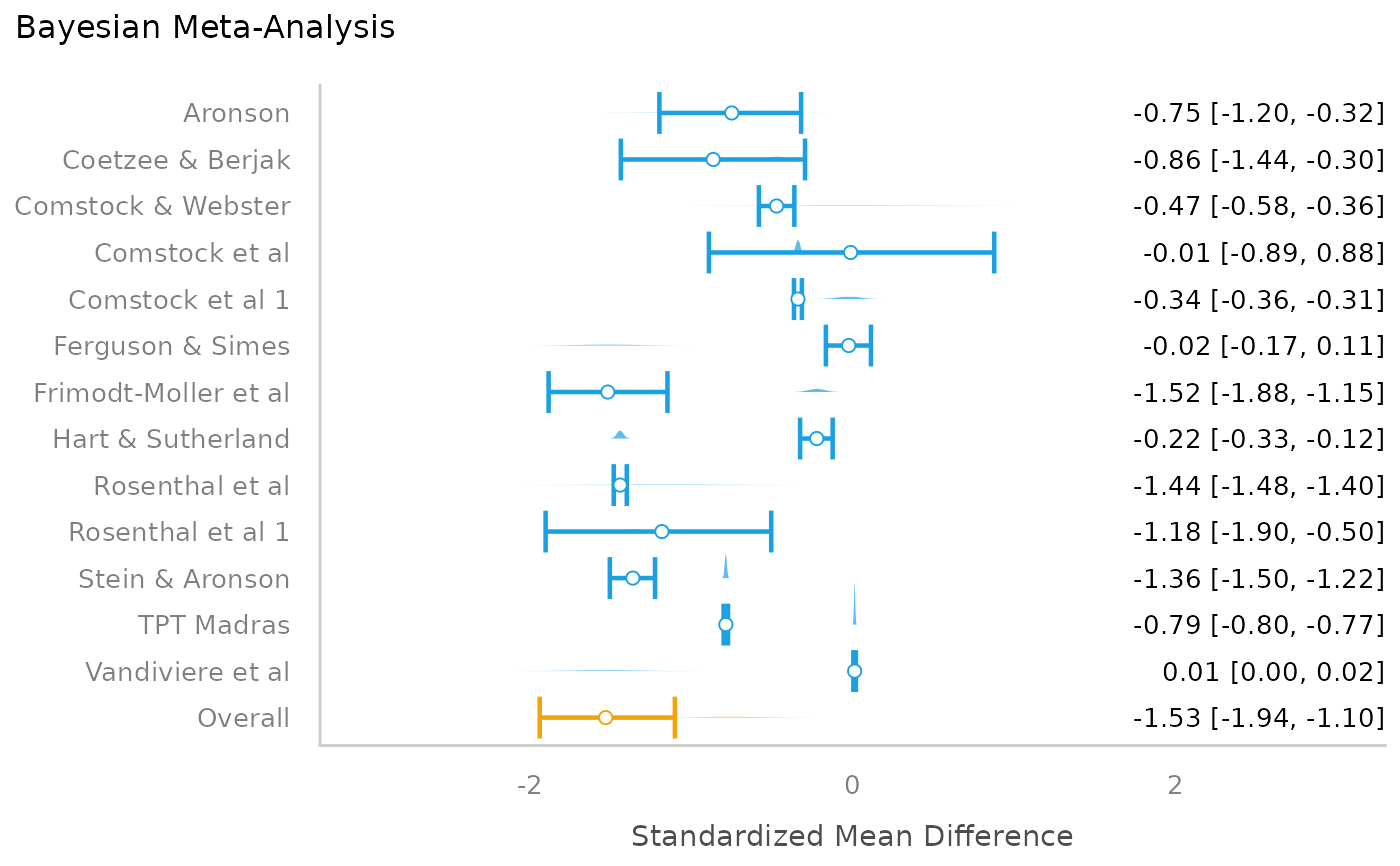
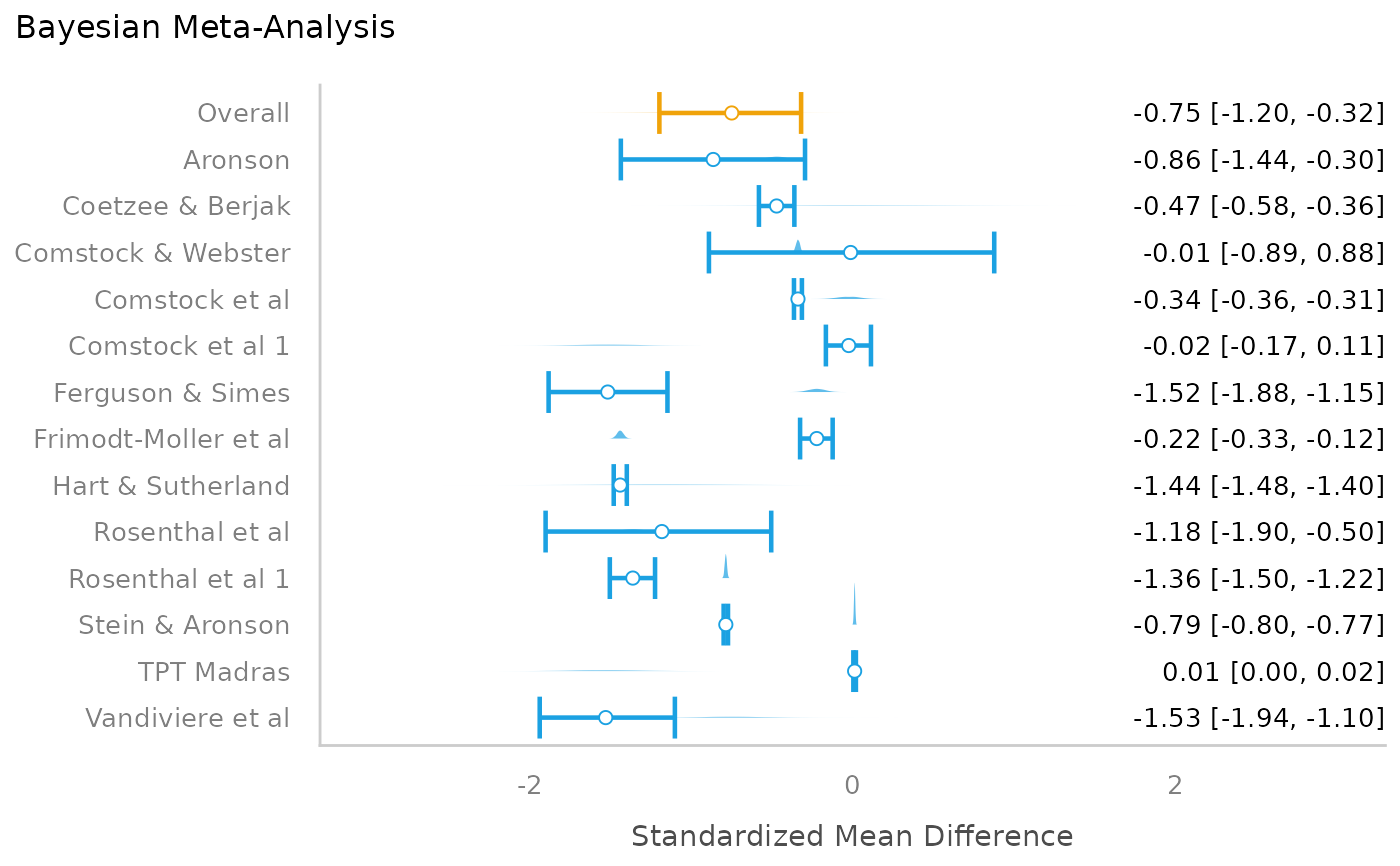
Deploying to gh-pages from @ easystats/see@2c340efe554aa6c4de41c799d99c848ec0261a95 🚀

diff --git a/articles/parameters.html b/articles/parameters.html
@@ -87,7 +87,7 @@
       <img src="../logo.png" class="logo" alt=""><h1>Plotting Functions for the 'parameters' Package</h1>
             
       
-      <small class="dont-index">Source: <a href="https://github.com/easystats/see/blob/v0.14.0/vignettes/parameters.Rmd" class="external-link"><code>vignettes/parameters.Rmd</code></a></small>
+      <small class="dont-index">Source: <a href="https://github.com/easystats/see/blob/main/vignettes/parameters.Rmd" class="external-link"><code>vignettes/parameters.Rmd</code></a></small>
       <div class="d-none name"><code>parameters.Rmd</code></div>
     </div>
 
@@ -514,55 +514,33 @@ to refit the exact model used below:</p>
 <span><span class="va">result</span></span>
 <span><span class="co">#&gt; # Studies</span></span>
 <span><span class="co">#&gt; </span></span>
-<span><span class="co">#&gt; Parameter                                  | Median |        95% CI | Weight</span></span>
-<span><span class="co">#&gt; ----------------------------------------------------------------------------</span></span>
-<span><span class="co">#&gt; b_Intercept                                |   0.57 | [ 0.40, 0.76] |       </span></span>
-<span><span class="co">#&gt; r_Author[Call.et.al.,Intercept]            |   0.63 | [ 0.28, 1.03] |   3.83</span></span>
-<span><span class="co">#&gt; r_Author[Cavanagh.et.al.,Intercept]        |   0.43 | [ 0.10, 0.75] |   5.09</span></span>
-<span><span class="co">#&gt; r_Author[DanitzOrsillo,Intercept]          |   1.05 | [ 0.54, 1.67] |   2.89</span></span>
-<span><span class="co">#&gt; r_Author[de.Vibe.et.al.,Intercept]         |   0.25 | [ 0.02, 0.47] |   8.49</span></span>
-<span><span class="co">#&gt; r_Author[Frazier.et.al.,Intercept]         |   0.45 | [ 0.20, 0.71] |   6.91</span></span>
-<span><span class="co">#&gt; r_Author[Frogeli.et.al.,Intercept]         |   0.60 | [ 0.30, 0.93] |   5.10</span></span>
-<span><span class="co">#&gt; r_Author[Gallego.et.al.,Intercept]         |   0.65 | [ 0.31, 1.03] |   4.45</span></span>
-<span><span class="co">#&gt; r_Author[Hazlett-Stevens.&amp;.Oren,Intercept] |   0.54 | [ 0.20, 0.88] |   4.75</span></span>
-<span><span class="co">#&gt; r_Author[Hintz.et.al.,Intercept]           |   0.36 | [ 0.08, 0.64] |   5.95</span></span>
-<span><span class="co">#&gt; r_Author[Kang.et.al.,Intercept]            |   0.84 | [ 0.41, 1.40] |   2.97</span></span>
-<span><span class="co">#&gt; r_Author[Kuhlmann.et.al.,Intercept]        |   0.27 | [-0.09, 0.57] |   5.14</span></span>
-<span><span class="co">#&gt; r_Author[Lever.Taylor.et.al.,Intercept]    |   0.46 | [ 0.10, 0.81] |   4.33</span></span>
-<span><span class="co">#&gt; r_Author[Phang.et.al.,Intercept]           |   0.55 | [ 0.19, 0.92] |   4.09</span></span>
-<span><span class="co">#&gt; r_Author[Rasanen.et.al.,Intercept]         |   0.49 | [ 0.10, 0.87] |   3.88</span></span>
-<span><span class="co">#&gt; r_Author[Ratanasiripong,Intercept]         |   0.54 | [ 0.09, 0.99] |   2.85</span></span>
-<span><span class="co">#&gt; r_Author[Shapiro.et.al.,Intercept]         |   0.96 | [ 0.50, 1.53] |   3.17</span></span>
-<span><span class="co">#&gt; r_Author[SongLindquist,Intercept]          |   0.59 | [ 0.25, 0.95] |   4.41</span></span>
-<span><span class="co">#&gt; r_Author[Warnecke.et.al.,Intercept]        |   0.58 | [ 0.21, 0.96] |   4.02</span></span>
-<span><span class="co">#&gt; </span></span>
-<span><span class="co">#&gt; Parameter                                  |     pd |  Rhat | ESS (tail)</span></span>
-<span><span class="co">#&gt; ------------------------------------------------------------------------</span></span>
-<span><span class="co">#&gt; b_Intercept                                |   100% | 1.000 |       4648</span></span>
-<span><span class="co">#&gt; r_Author[Call.et.al.,Intercept]            | 99.95% |       |           </span></span>
-<span><span class="co">#&gt; r_Author[Cavanagh.et.al.,Intercept]        | 99.45% |       |           </span></span>
-<span><span class="co">#&gt; r_Author[DanitzOrsillo,Intercept]          |   100% |       |           </span></span>
-<span><span class="co">#&gt; r_Author[de.Vibe.et.al.,Intercept]         | 98.39% |       |           </span></span>
-<span><span class="co">#&gt; r_Author[Frazier.et.al.,Intercept]         | 99.91% |       |           </span></span>
-<span><span class="co">#&gt; r_Author[Frogeli.et.al.,Intercept]         | 99.99% |       |           </span></span>
-<span><span class="co">#&gt; r_Author[Gallego.et.al.,Intercept]         |   100% |       |           </span></span>
-<span><span class="co">#&gt; r_Author[Hazlett-Stevens.&amp;.Oren,Intercept] | 99.85% |       |           </span></span>
-<span><span class="co">#&gt; r_Author[Hintz.et.al.,Intercept]           | 99.36% |       |           </span></span>
-<span><span class="co">#&gt; r_Author[Kang.et.al.,Intercept]            |   100% |       |           </span></span>
-<span><span class="co">#&gt; r_Author[Kuhlmann.et.al.,Intercept]        | 93.21% |       |           </span></span>
-<span><span class="co">#&gt; r_Author[Lever.Taylor.et.al.,Intercept]    | 99.34% |       |           </span></span>
-<span><span class="co">#&gt; r_Author[Phang.et.al.,Intercept]           | 99.83% |       |           </span></span>
-<span><span class="co">#&gt; r_Author[Rasanen.et.al.,Intercept]         | 99.26% |       |           </span></span>
-<span><span class="co">#&gt; r_Author[Ratanasiripong,Intercept]         | 99.01% |       |           </span></span>
-<span><span class="co">#&gt; r_Author[Shapiro.et.al.,Intercept]         |   100% |       |           </span></span>
-<span><span class="co">#&gt; r_Author[SongLindquist,Intercept]          | 99.95% |       |           </span></span>
-<span><span class="co">#&gt; r_Author[Warnecke.et.al.,Intercept]        | 99.81% |       |           </span></span>
+<span><span class="co">#&gt; Parameter              | Median |        95% CI | Weight |     pd |  Rhat | ESS (tail)</span></span>
+<span><span class="co">#&gt; --------------------------------------------------------------------------------------</span></span>
+<span><span class="co">#&gt; Overall                |   0.57 | [ 0.40, 0.76] |        |   100% | 1.000 |       4648</span></span>
+<span><span class="co">#&gt; Call et al             |   0.63 | [ 0.28, 1.03] |   3.83 | 99.95% |       |           </span></span>
+<span><span class="co">#&gt; Cavanagh et al         |   0.43 | [ 0.10, 0.75] |   5.09 | 99.45% |       |           </span></span>
+<span><span class="co">#&gt; DanitzOrsillo          |   1.05 | [ 0.54, 1.67] |   2.89 |   100% |       |           </span></span>
+<span><span class="co">#&gt; de Vibe et al          |   0.25 | [ 0.02, 0.47] |   8.49 | 98.39% |       |           </span></span>
+<span><span class="co">#&gt; Frazier et al          |   0.45 | [ 0.20, 0.71] |   6.91 | 99.91% |       |           </span></span>
+<span><span class="co">#&gt; Frogeli et al          |   0.60 | [ 0.30, 0.93] |   5.10 | 99.99% |       |           </span></span>
+<span><span class="co">#&gt; Gallego et al          |   0.65 | [ 0.31, 1.03] |   4.45 |   100% |       |           </span></span>
+<span><span class="co">#&gt; Hazlett-Stevens &amp; Oren |   0.54 | [ 0.20, 0.88] |   4.75 | 99.85% |       |           </span></span>
+<span><span class="co">#&gt; Hintz et al            |   0.36 | [ 0.08, 0.64] |   5.95 | 99.36% |       |           </span></span>
+<span><span class="co">#&gt; Kang et al             |   0.84 | [ 0.41, 1.40] |   2.97 |   100% |       |           </span></span>
+<span><span class="co">#&gt; Kuhlmann et al         |   0.27 | [-0.09, 0.57] |   5.14 | 93.21% |       |           </span></span>
+<span><span class="co">#&gt; Lever Taylor et al     |   0.46 | [ 0.10, 0.81] |   4.33 | 99.34% |       |           </span></span>
+<span><span class="co">#&gt; Phang et al            |   0.55 | [ 0.19, 0.92] |   4.09 | 99.83% |       |           </span></span>
+<span><span class="co">#&gt; Rasanen et al          |   0.49 | [ 0.10, 0.87] |   3.88 | 99.26% |       |           </span></span>
+<span><span class="co">#&gt; Ratanasiripong         |   0.54 | [ 0.09, 0.99] |   2.85 | 99.01% |       |           </span></span>
+<span><span class="co">#&gt; Shapiro et al          |   0.96 | [ 0.50, 1.53] |   3.17 |   100% |       |           </span></span>
+<span><span class="co">#&gt; SongLindquist          |   0.59 | [ 0.25, 0.95] |   4.41 | 99.95% |       |           </span></span>
+<span><span class="co">#&gt; Warnecke et al         |   0.58 | [ 0.21, 0.96] |   4.02 | 99.81% |       |           </span></span>
 <span><span class="co">#&gt; </span></span>
 <span><span class="co">#&gt; # Tau</span></span>
 <span><span class="co">#&gt; </span></span>
-<span><span class="co">#&gt; Parameter            | Median |       95% CI |   pd</span></span>
-<span><span class="co">#&gt; ---------------------------------------------------</span></span>
-<span><span class="co">#&gt; sd_Author__Intercept |   0.29 | [0.12, 0.51] | 100%</span></span>
+<span><span class="co">#&gt; Parameter | Median |       95% CI |   pd</span></span>
+<span><span class="co">#&gt; ----------------------------------------</span></span>
+<span><span class="co">#&gt; tau       |   0.29 | [0.12, 0.51] | 100%</span></span>
 <span><span class="fu"><a href="https://rdrr.io/r/graphics/plot.default.html" class="external-link">plot</a></span><span class="op">(</span><span class="va">result</span><span class="op">)</span></span></code></pre></div>
 <p><img src="parameters_files/figure-html/unnamed-chunk-28-1.png" class="r-plt" alt="" width="672"></p>
 </div>

diff --git a/news/index.html b/news/index.html
@@ -50,11 +50,11 @@
 <div class="row">
   <main id="main" class="col-md-9"><div class="page-header">
       <img src="../logo.png" class="logo" alt=""><h1>Changelog</h1>
-      <small>Source: <a href="https://github.com/easystats/see/blob/v0.14.0/NEWS.md" class="external-link"><code>NEWS.md</code></a></small>
+      <small>Source: <a href="https://github.com/easystats/see/blob/main/NEWS.md" class="external-link"><code>NEWS.md</code></a></small>
     </div>
 
     <div class="section level2">
-<h2 class="pkg-version" data-toc-text="0.14.0" id="see-0140">see 0.14.0<a class="anchor" aria-label="anchor" href="#see-0140"></a></h2>
+<h2 class="pkg-version" data-toc-text="0.14.0" id="see-0140">see 0.14.0<a class="anchor" aria-label="anchor" href="#see-0140"></a></h2><p class="text-muted">CRAN release: 2026-05-24</p>
 <div class="section level3">
 <h3 id="changes-0-14-0">Changes<a class="anchor" aria-label="anchor" href="#changes-0-14-0"></a></h3>
 <ul><li><p><code><a href="https://rdrr.io/r/graphics/plot.default.html" class="external-link">plot()</a></code> for <code><a href="https://easystats.github.io/parameters/reference/principal_components.html" class="external-link">parameters::factor_analysis()</a></code> and <code><a href="https://easystats.github.io/parameters/reference/principal_components.html" class="external-link">parameters::principal_components()</a></code> gains a new <code>type</code> option, <code>"graph"</code>. This creates a graph with nodes/edges indicating factor loadings.</p></li>

diff --git a/CODE_OF_CONDUCT.html b/CODE_OF_CONDUCT.html
@@ -50,7 +50,7 @@
 <div class="row">
   <main id="main" class="col-md-9"><div class="page-header">
       <img src="logo.png" class="logo" alt=""><h1>Contributor Covenant Code of Conduct</h1>
-      <small class="dont-index">Source: <a href="https://github.com/easystats/see/blob/v0.14.0/.github/CODE_OF_CONDUCT.md" class="external-link"><code>.github/CODE_OF_CONDUCT.md</code></a></small>
+      <small class="dont-index">Source: <a href="https://github.com/easystats/see/blob/main/.github/CODE_OF_CONDUCT.md" class="external-link"><code>.github/CODE_OF_CONDUCT.md</code></a></small>
     </div>
 
 <div id="contributor-covenant-code-of-conduct" class="section level1">

diff --git a/CONTRIBUTING.html b/CONTRIBUTING.html
@@ -50,7 +50,7 @@
 <div class="row">
   <main id="main" class="col-md-9"><div class="page-header">
       <img src="logo.png" class="logo" alt=""><h1>Contributing to see</h1>
-      <small class="dont-index">Source: <a href="https://github.com/easystats/see/blob/v0.14.0/.github/CONTRIBUTING.md" class="external-link"><code>.github/CONTRIBUTING.md</code></a></small>
+      <small class="dont-index">Source: <a href="https://github.com/easystats/see/blob/main/.github/CONTRIBUTING.md" class="external-link"><code>.github/CONTRIBUTING.md</code></a></small>
     </div>
 
 <div id="contributing-to-see" class="section level1">

diff --git a/LICENSE.html b/LICENSE.html
@@ -50,7 +50,7 @@
 <div class="row">
   <main id="main" class="col-md-9"><div class="page-header">
       <img src="logo.png" class="logo" alt=""><h1>MIT License</h1>
-      <small class="dont-index">Source: <a href="https://github.com/easystats/see/blob/v0.14.0/LICENSE.md" class="external-link"><code>LICENSE.md</code></a></small>
+      <small class="dont-index">Source: <a href="https://github.com/easystats/see/blob/main/LICENSE.md" class="external-link"><code>LICENSE.md</code></a></small>
     </div>
 
 <div id="mit-license" class="section level1">

diff --git a/SUPPORT.html b/SUPPORT.html
@@ -50,7 +50,7 @@
 <div class="row">
   <main id="main" class="col-md-9"><div class="page-header">
       <img src="logo.png" class="logo" alt=""><h1>Getting help with {see}</h1>
-      <small class="dont-index">Source: <a href="https://github.com/easystats/see/blob/v0.14.0/.github/SUPPORT.md" class="external-link"><code>.github/SUPPORT.md</code></a></small>
+      <small class="dont-index">Source: <a href="https://github.com/easystats/see/blob/main/.github/SUPPORT.md" class="external-link"><code>.github/SUPPORT.md</code></a></small>
     </div>
 
 <div id="getting-help-with-see" class="section level1">

diff --git a/articles/bayestestR.html b/articles/bayestestR.html
@@ -87,7 +87,7 @@
       <img src="../logo.png" class="logo" alt=""><h1>Plotting Functions for the 'bayestestR' Package</h1>
             
       
-      <small class="dont-index">Source: <a href="https://github.com/easystats/see/blob/v0.14.0/vignettes/bayestestR.Rmd" class="external-link"><code>vignettes/bayestestR.Rmd</code></a></small>
+      <small class="dont-index">Source: <a href="https://github.com/easystats/see/blob/main/vignettes/bayestestR.Rmd" class="external-link"><code>vignettes/bayestestR.Rmd</code></a></small>
       <div class="d-none name"><code>bayestestR.Rmd</code></div>
     </div>
 

diff --git a/articles/correlation.html b/articles/correlation.html
@@ -87,7 +87,7 @@
       <img src="../logo.png" class="logo" alt=""><h1>Plotting Functions for the 'correlation' Package</h1>
             
       
-      <small class="dont-index">Source: <a href="https://github.com/easystats/see/blob/v0.14.0/vignettes/correlation.Rmd" class="external-link"><code>vignettes/correlation.Rmd</code></a></small>
+      <small class="dont-index">Source: <a href="https://github.com/easystats/see/blob/main/vignettes/correlation.Rmd" class="external-link"><code>vignettes/correlation.Rmd</code></a></small>
       <div class="d-none name"><code>correlation.Rmd</code></div>
     </div>
 

diff --git a/articles/datawizard.html b/articles/datawizard.html
@@ -87,7 +87,7 @@
       <img src="../logo.png" class="logo" alt=""><h1>Plotting Functions for the 'datawizard' Package</h1>
             
       
-      <small class="dont-index">Source: <a href="https://github.com/easystats/see/blob/v0.14.0/vignettes/datawizard.Rmd" class="external-link"><code>vignettes/datawizard.Rmd</code></a></small>
+      <small class="dont-index">Source: <a href="https://github.com/easystats/see/blob/main/vignettes/datawizard.Rmd" class="external-link"><code>vignettes/datawizard.Rmd</code></a></small>
       <div class="d-none name"><code>datawizard.Rmd</code></div>
     </div>
 

diff --git a/articles/effectsize.html b/articles/effectsize.html
@@ -87,7 +87,7 @@
       <img src="../logo.png" class="logo" alt=""><h1>Plotting Functions for the 'effectsize' Package</h1>
             
       
-      <small class="dont-index">Source: <a href="https://github.com/easystats/see/blob/v0.14.0/vignettes/effectsize.Rmd" class="external-link"><code>vignettes/effectsize.Rmd</code></a></small>
+      <small class="dont-index">Source: <a href="https://github.com/easystats/see/blob/main/vignettes/effectsize.Rmd" class="external-link"><code>vignettes/effectsize.Rmd</code></a></small>
       <div class="d-none name"><code>effectsize.Rmd</code></div>
     </div>
 

diff --git a/articles/modelbased.html b/articles/modelbased.html
@@ -87,7 +87,7 @@
       <img src="../logo.png" class="logo" alt=""><h1>Plotting Functions for the 'modelbased' Package</h1>
             
       
-      <small class="dont-index">Source: <a href="https://github.com/easystats/see/blob/v0.14.0/vignettes/modelbased.Rmd" class="external-link"><code>vignettes/modelbased.Rmd</code></a></small>
+      <small class="dont-index">Source: <a href="https://github.com/easystats/see/blob/main/vignettes/modelbased.Rmd" class="external-link"><code>vignettes/modelbased.Rmd</code></a></small>
       <div class="d-none name"><code>modelbased.Rmd</code></div>
     </div>
 

diff --git a/articles/performance.html b/articles/performance.html
@@ -87,7 +87,7 @@
       <img src="../logo.png" class="logo" alt=""><h1>Plotting Functions for the 'performance' Package</h1>
             
       
-      <small class="dont-index">Source: <a href="https://github.com/easystats/see/blob/v0.14.0/vignettes/performance.Rmd" class="external-link"><code>vignettes/performance.Rmd</code></a></small>
+      <small class="dont-index">Source: <a href="https://github.com/easystats/see/blob/main/vignettes/performance.Rmd" class="external-link"><code>vignettes/performance.Rmd</code></a></small>
       <div class="d-none name"><code>performance.Rmd</code></div>
     </div>
 